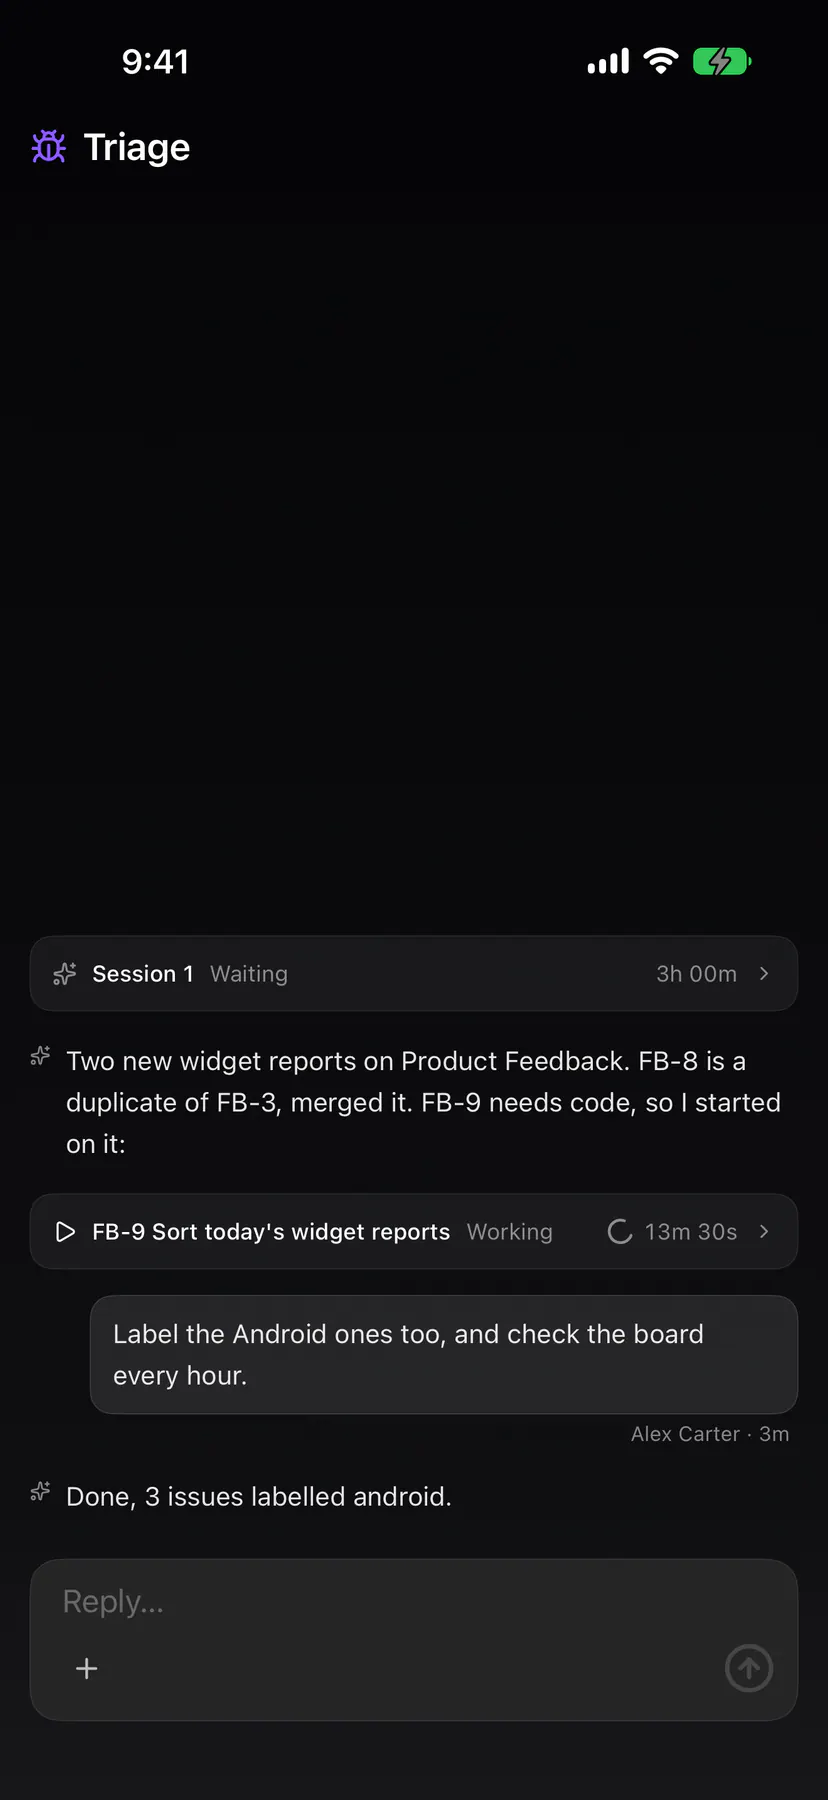
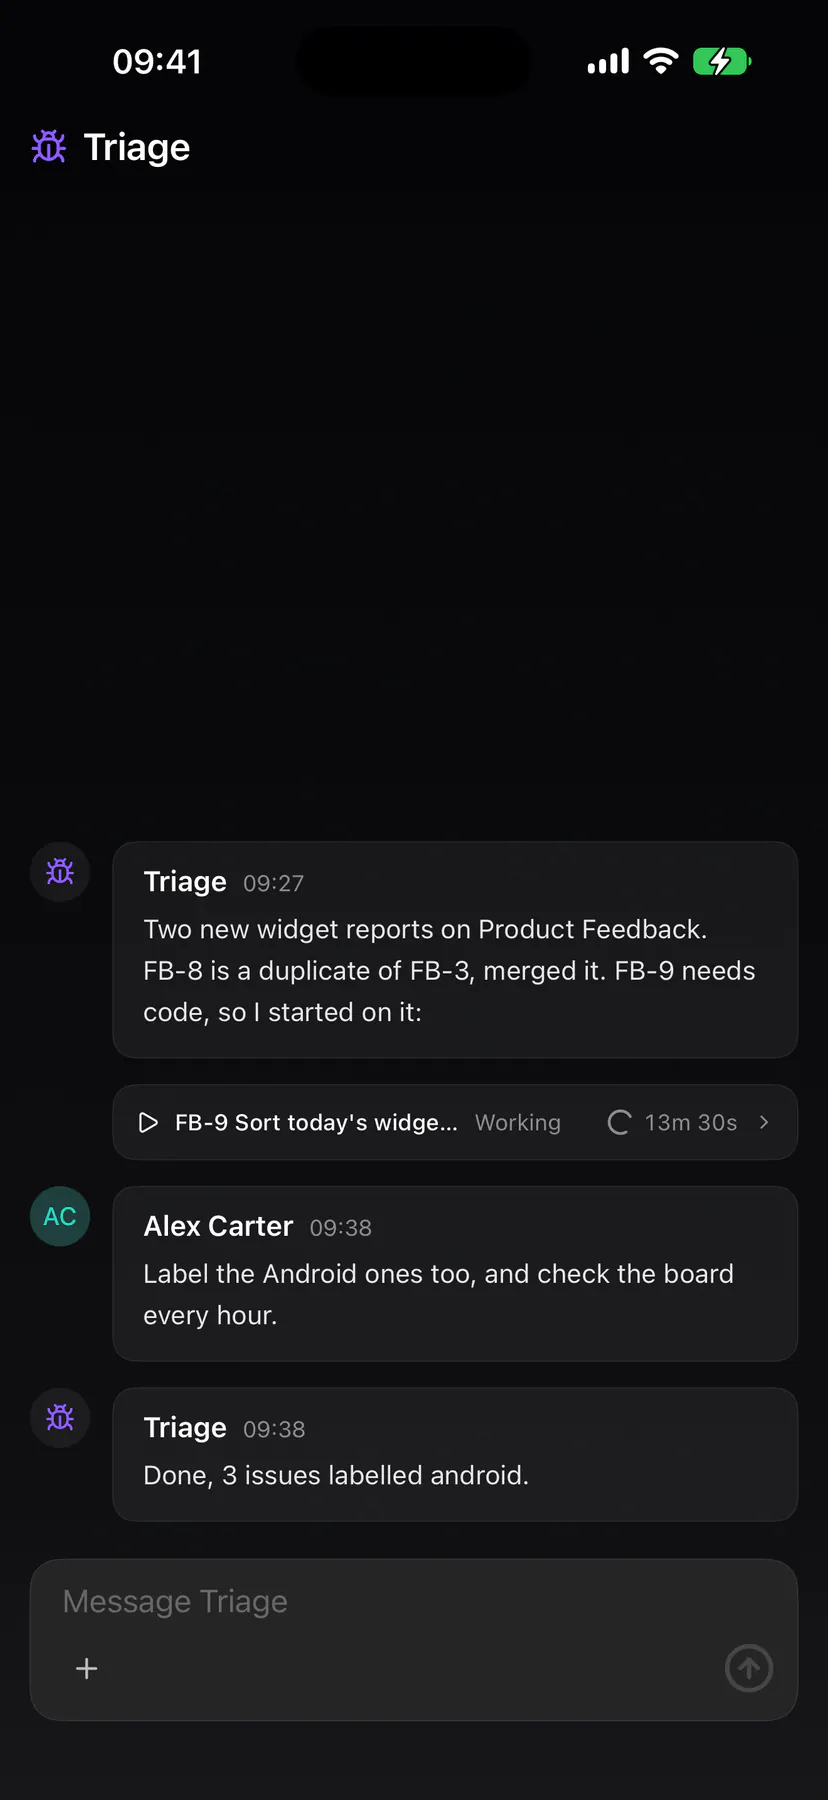
EXP-1300: iOS agent channel draws the shared comment rows (Message <name>, no own root card); Threads specimen lists Release; Open on GitHub on the thread Guide; iOS shots recaptured

diff --git a/apps/ios/Exponential/UI/Thread/ThreadConversation.swift b/apps/ios/Exponential/UI/Thread/ThreadConversation.swift
@@ -13,6 +13,10 @@ import SwiftUI
 /// opens that thread; a question or plan answers IN the session view's
 /// `QuestionCard` (`sessions.answer`); a subagent is one muted row; a
 /// picture is the Guide's inline tile; an event is one muted line.
+/// EXP-1300: an AGENT channel (web `AgentChannel`, Android
+/// `ThreadCommentRow`) leaves its own root card out and draws EVERY message
+/// as a comment row (`ChannelMessageRow`: the agent's icon or the person's
+/// avatar, the name, the time, the body); its cards indent under the rows.
 /// Presentational: the screen (and the styleguide) hand it the rows; every
 /// tap goes back out through a closure.
 struct ThreadConversationView: View {
@@ -63,13 +67,72 @@ struct ThreadConversationView: View {
 
     var body: some View {
         LazyVStack(alignment: .leading, spacing: 14) {
-            ForEach(view.rows, id: \.id) { row in
-                rowView(row)
+            ForEach(shownRows, id: \.id) { row in
+                if rows.isAgent {
+                    channelRowView(row)
+                } else {
+                    rowView(row)
+                }
             }
         }
         .frame(maxWidth: .infinity, alignment: .leading)
         .accessibilityElement(children: .contain)
         .accessibilityIdentifier(SessionTree.ThreadCopy.conversationTestId)
+    }
+
+    /// An agent channel's own card (row 0) stays off it.
+    private var shownRows: [ThreadRow] {
+        guard rows.isAgent else { return view.rows }
+        return view.rows.filter { row in
+            if case let .session(_, card) = row { return card.sessionId != rows.root.id }
+            return true
+        }
+    }
+
+    /// An agent channel's row: a message is a comment row, anything else
+    /// the thread's own part indented under the rows' lead.
+    @ViewBuilder
+    private func channelRowView(_ row: ThreadRow) -> some View {
+        if case let .message(id, author, authorId, body, queued) = row,
+           author != DomainContract.messageAuthorKindSystem {
+            let fromAgent = author == DomainContract.messageAuthorKindAgent
+            let user = fromAgent ? nil : rows.user(id: authorId)
+            ChannelMessageRow(
+                name: fromAgent ? (rows.root.name ?? "") : (user?.name ?? user?.email ?? ""),
+                time: channelTime(messageId: id, queued: queued),
+                lead: {
+                    if fromAgent {
+                        AppIcon(
+                            BoardTypeDisplay.iconName(for: rows.root.icon)
+                                ?? SessionTree.ListCopy.agentDefaultIcon,
+                            size: 16,
+                            weight: .medium
+                        )
+                        .foregroundStyle(
+                            Color(hex: rows.root.color ?? SessionTree.ListCopy.agentDefaultColor) ?? .white
+                        )
+                    } else {
+                        UserAvatar(user: user, id: authorId, size: ChannelMessageMetrics.leadSize)
+                    }
+                },
+                content: {
+                    AgentMarkdownText(text: body, context: markdownContext, options: [.autolinkBareURLs, .hardLineBreaks])
+                }
+            )
+            .opacity(queued ? 0.7 : 1)
+            .accessibilityIdentifier("thread-message")
+        } else {
+            rowView(row)
+                .padding(.leading, ChannelMessageMetrics.leadSize + ChannelMessageMetrics.gap)
+        }
+    }
+
+    /// A channel row's time: `HH:mm`, then `queued` until the device took it.
+    private func channelTime(messageId: String, queued: Bool) -> String {
+        let at = rows.messages.first { $0.id == messageId }
+            .flatMap { WireTimestamps.parse($0.createdAt) }
+            .map(GlassTimeRow.formatted)
+        return [at, queued ? Self.queuedWord : nil].compactMap { $0 }.joined(separator: " · ")
     }
 
     @ViewBuilder
@@ -220,5 +283,62 @@ private struct ThreadEventLine: View {
         .frame(maxWidth: .infinity, alignment: .leading)
         .accessibilityElement(children: .combine)
         .accessibilityIdentifier("thread-event-line")
+    }
+}
+
+/// The channel row's lead circle and its gap to the card (a card row
+/// indents by both).
+enum ChannelMessageMetrics {
+    static let leadSize: CGFloat = 32
+    static let gap: CGFloat = 12
+}
+
+/// EXP-1300: an agent channel's comment row (web `ChannelMessageRow`,
+/// Android `ThreadCommentRow`) — the lead (the agent's icon or the person's
+/// avatar) in a 32pt circle, then the card: the name, the muted time, the
+/// body.
+struct ChannelMessageRow<Lead: View, Content: View>: View {
+
+    let name: String
+    let time: String
+    @ViewBuilder let lead: () -> Lead
+    @ViewBuilder let content: () -> Content
+
+    var body: some View {
+        HStack(alignment: .top, spacing: ChannelMessageMetrics.gap) {
+            lead()
+                .frame(width: ChannelMessageMetrics.leadSize, height: ChannelMessageMetrics.leadSize)
+                .background(GlassTokens.fillRow, in: Circle())
+                .clipShape(Circle())
+                .accessibilityHidden(true)
+            VStack(alignment: .leading, spacing: 4) {
+                HStack(alignment: .firstTextBaseline, spacing: 8) {
+                    Text(name)
+                        .font(.subheadline.weight(.semibold))
+                        .foregroundStyle(.white)
+                        .lineLimit(1)
+                        .truncationMode(.tail)
+                    if !time.isEmpty {
+                        Text(time)
+                            .font(.caption)
+                            .foregroundStyle(.white.opacity(TextOpacity.tertiary))
+                            .fixedSize()
+                    }
+                }
+                content()
+                    .frame(maxWidth: .infinity, alignment: .leading)
+            }
+            .padding(.horizontal, 16)
+            .padding(.vertical, 12)
+            .frame(maxWidth: .infinity, alignment: .leading)
+            .background(GlassTokens.fillRow, in: RoundedRectangle(cornerRadius: GlassTokens.groupRadius))
+            .overlay(
+                RoundedRectangle(cornerRadius: GlassTokens.groupRadius)
+                    .stroke(GlassTokens.strokeCard, lineWidth: GlassTokens.hairline)
+            )
+        }
+        .frame(maxWidth: .infinity, alignment: .leading)
+        .accessibilityElement(children: .combine)
+        .accessibilityIdentifier("channel-message")
     }
 }

diff --git a/apps/ios/Exponential/UI/Thread/ThreadScreen.swift b/apps/ios/Exponential/UI/Thread/ThreadScreen.swift
@@ -16,7 +16,8 @@ import SwiftUI
 ///   `sessions.send({sessionId: root})`.
 /// * An issue tab = the existing issue page (`IssueFaceView`) of that issue.
 /// * Guide = the existing Guide face over the root's `guide` (the PR body),
-///   counting the thread PR's files, with its Merge capsule while it is open.
+///   counting the thread PR's files, with its Merge capsule while it is open
+///   and Open on GitHub in the header's action slot.
 ///
 /// The "+" opens THE Menu's sheet: Link an issue (THE search list →
 /// `sessions.linkIssues`) · New issue (the New issue page filing into this
@@ -33,6 +34,7 @@ struct ThreadScreen: View {
     @Environment(\.toaster) private var toaster
     @Environment(TeamState.self) private var teamState
     @Environment(\.threadLanding) private var threadLanding
+    @Environment(\.openURL) private var openURL
     @State private var page: ThreadPage
     /// A requested issue tab that has not synced into the strip yet (a
     /// just-filed issue): the page shows the Conversation and switches the
@@ -119,6 +121,20 @@ struct ThreadScreen: View {
         }
         .navigationBarTitleDisplayMode(.inline)
         .toolbarBackground(.hidden, for: .navigationBar)
+        .toolbar {
+            // EXP-916/1300: THE Open on GitHub control rides the header's
+            // action slot on the Guide (web's PR row `PrGithubButton`).
+            ToolbarItem(placement: .topBarTrailing) {
+                if page == .guide, let url = rows?.guidePullRequest.flatMap({ URL(string: $0.url) }) {
+                    Button { openURL(url) } label: {
+                        AppIcon(AppIcons.uiGithub, size: AppIcon.Size.medium, weight: .medium)
+                            .foregroundStyle(.white.opacity(TextOpacity.secondary))
+                    }
+                    .accessibilityLabel(DomainContract.diffUiOpenOnGithub)
+                    .accessibilityIdentifier("changes-github-action")
+                }
+            }
+        }
         // Each presentation on its OWN node (EXP-240).
         .background {
             Color.clear
@@ -254,7 +270,7 @@ struct ThreadScreen: View {
             .safeAreaInset(edge: .bottom) {
                 ThreadComposer(
                     sessionId: view.composer.sessionId,
-                    placeholder: view.composer.placeholder
+                    placeholder: rows.composerPlaceholder(view)
                 )
             }
         }

diff --git a/apps/ios/Exponential/UI/Thread/ThreadStyleguideScreen.swift b/apps/ios/Exponential/UI/Thread/ThreadStyleguideScreen.swift
@@ -27,7 +27,11 @@ struct ThreadStyleguideScreen: View {
     private static let boardId = "board-mobile"
 
     var body: some View {
-        let now = Date()
+        // The channel's rows print a time of day: photographed at 09:41
+        // like the status bar (web pins DEMO_AGENT_CHANNEL_TIMES the same way).
+        let now = kind == "agent-channel"
+            ? Calendar.current.date(bySettingHour: 9, minute: 41, second: 0, of: Date()) ?? Date()
+            : Date()
         let rows = kind == "agent-channel" ? Self.agentChannel(now: now) : Self.liveThread(now: now)
         let view = rows.view(now: now)
         ZStack {
@@ -41,7 +45,7 @@ struct ThreadStyleguideScreen: View {
             .safeAreaInset(edge: .bottom) {
                 ThreadComposer(
                     sessionId: view.composer.sessionId,
-                    placeholder: view.composer.placeholder
+                    placeholder: rows.composerPlaceholder(view)
                 )
             }
             .safeAreaInset(edge: .top, spacing: 0) {

diff --git a/apps/styleguide/src/components.tsx b/apps/styleguide/src/components.tsx
@@ -2350,7 +2350,11 @@ export const COMPONENTS: readonly ComponentSpec[] = [
     status: {
       web: ok(`PrGithubButton`, `packages/ui/src/pr-github-button.tsx`),
       desktop: ok(`work_header::github_button`, `apps/desktop/crates/ui/src/work_header.rs`),
-      ios: na(`EXP-1295: the Work screen and its Guide toolbar are gone; no Open on GitHub control yet`),
+      ios: ok(
+        `ThreadScreen toolbar`,
+        `apps/ios/Exponential/UI/Thread/ThreadScreen.swift`,
+        `EXP-1300: the header arm on the thread's Guide page`
+      ),
       android: ok(
         `GithubHeaderAction`,
         `apps/android/app/src/main/java/com/exponential/app/ui/work/WorkTopBar.kt`,

diff --git a/apps/ios/Exponential/UI/Thread/ThreadRows.swift b/apps/ios/Exponential/UI/Thread/ThreadRows.swift
@@ -63,6 +63,14 @@ struct ThreadRows: Sendable {
         )
     }
 
+    /// The composer's placeholder: `Message <name>` on an agent channel
+    /// (web `agents/$agentId`, Android `ThreadUiCopy.messageAgent`), else the
+    /// thread's own.
+    func composerPlaceholder(_ view: SessionThreadView) -> String {
+        guard isAgent, let name = root.name, !name.isEmpty else { return view.composer.placeholder }
+        return "Message \(name)"
+    }
+
     /// The PR the Guide counts and merges: the newest open one, else the
     /// newest merged, else none.
     var guidePullRequest: PullRequestEntity? {

diff --git a/apps/ios/Exponential/UI/MyWork/ThreadsStyleguideScreen.swift b/apps/ios/Exponential/UI/MyWork/ThreadsStyleguideScreen.swift
@@ -120,6 +120,12 @@ struct ThreadsStyleguideScreen: View {
             sessionId: "agent-designer", teamId: teamId, name: "Designer", icon: "palette",
             color: "#ec4899", busy: false, needsYou: false
         ),
+        // EXP-1300: the seed's idle, never-run agent lists too (`listAgents`
+        // keeps every agent root).
+        AgentRow(
+            sessionId: "agent-release", teamId: teamId, name: "Release", icon: "package",
+            color: "#22c55e", busy: false, needsYou: false
+        ),
     ]
 
     private static func row(
